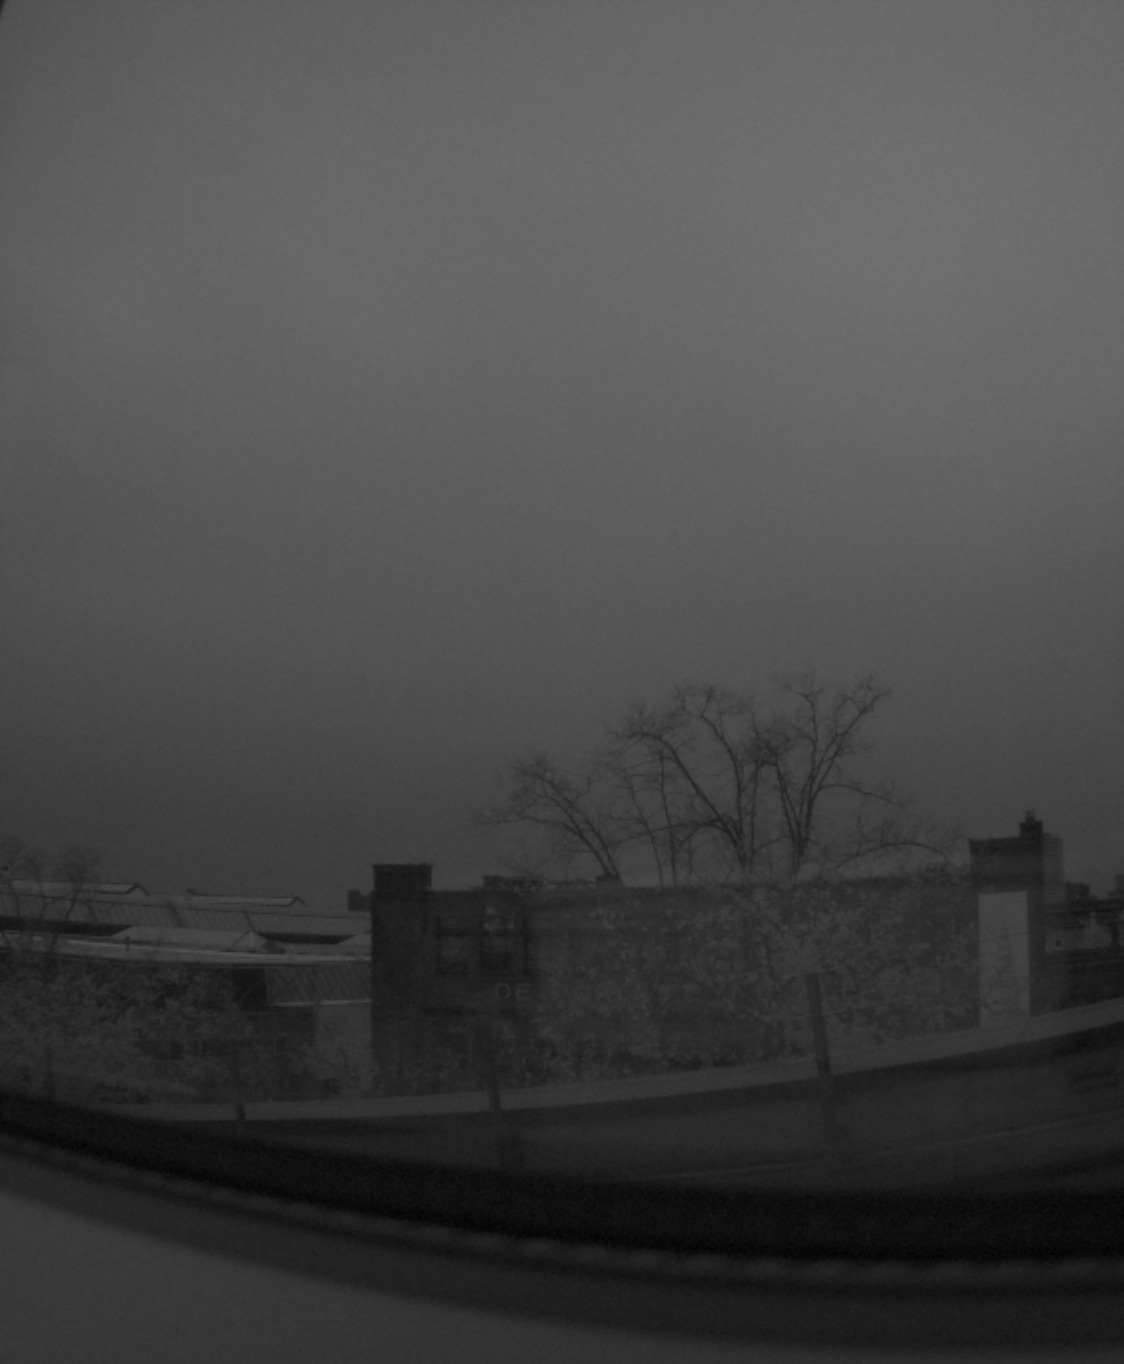
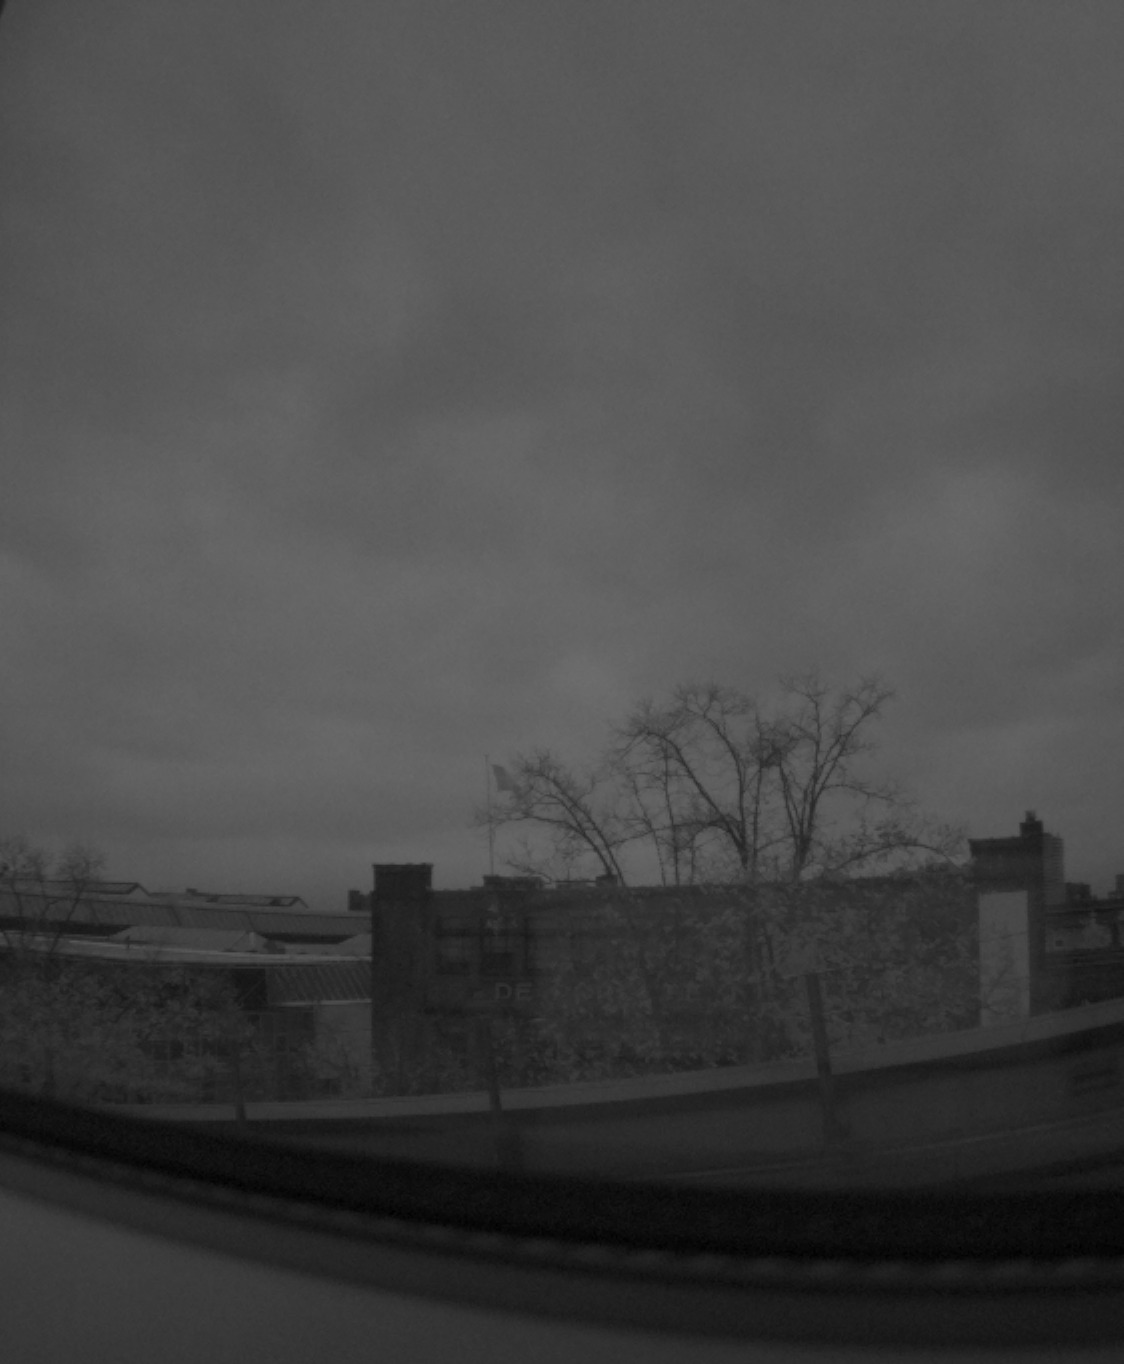
Use datasheet DS14163: NIR removal by default, sensor black level, docs
- Bridge removes NIR from R, G and B by default (rgb - ir); the datasheet
  QE curves show all pixel types respond equally above ~820 nm. Disabled
  automatically when a colour matrix is loaded.
- Bridge reads the black level (dark calibration pedestal) from the sensor
  instead of assuming 64
- vd16gz.py: analogue gain factor 32 / (32 - code), set_gain_x()
- capture.py preview uses the same NIR removal
- README: sensor characteristics (spectral sensitivity, specifications,
  lens requirements, unused sensor features), updated example images

Changed region(s): [[0.0, 0.4927, 0.903, 0.6774], [0.8096, 0.1232, 0.8719, 0.1848], [0.7785, 0.1848, 0.8096, 0.2155]]

diff --git a/bridge/vd16gz-bridge.c b/bridge/vd16gz-bridge.c
@@ -47,7 +47,11 @@
 
 enum { R, G, B, I };
 
-/* 4x4 colour filter layout at full resolution, no flips, top-left pixel first. */
+/* vd56g3 driver control: black level (pedestal) added after the sensor's dark calibration */
+#define V4L2_CID_DARKCAL_PEDESTAL (V4L2_CID_USER_BASE | 0x1024)
+
+/* 4x4 colour filter layout at full resolution, no flips, top-left pixel first
+ * (datasheet DS14163, figure 22). */
 static const char *CFA_ROWS[4] = { "GIGI", "BGRG", "GIGI", "RGBG" };
 
 static struct {
@@ -61,7 +65,7 @@ static struct {
 	const char *exposure;    /* NULL (leave), "auto" or lines */
 	int gain;
 } opt = {
-	.threads = 4, .black = 64, .wb_mode = -1, .gain = -1,
+	.threads = 4, .black = -1, .wb_mode = -1, .gain = -1, .ir_subtract = -1,
 	.dev_path = { "/dev/vd16gz-rgb", "/dev/vd16gz-ir", "/dev/vd16gz-raw" },
 };
 
@@ -194,10 +198,15 @@ static void setup_pipeline(char *video, size_t n)
 		fprintf(stderr, "vd16gz-bridge: sensor '%s' (%s) on %s, capturing from %s\n",
 			sensor.name, sensor.devnode, path, video);
 
+		int sfd = open(sensor.devnode, O_RDWR);
+		if (sfd < 0)
+			die("cannot open %s", sensor.devnode);
+		if (opt.black < 0) {
+			/* The sensor's dark calibration subtracts the dark level and adds this pedestal */
+			struct v4l2_control c = { .id = V4L2_CID_DARKCAL_PEDESTAL };
+			opt.black = xioctl(sfd, VIDIOC_G_CTRL, &c) ? 64 : c.value;
+		}
 		if (opt.exposure || opt.gain >= 0) {
-			int sfd = open(sensor.devnode, O_RDWR);
-			if (sfd < 0)
-				die("cannot open %s", sensor.devnode);
 			if (opt.exposure && !strcmp(opt.exposure, "auto")) {
 				set_ctrl(sfd, V4L2_CID_EXPOSURE_AUTO, V4L2_EXPOSURE_AUTO, "auto_exposure");
 			} else {
@@ -207,8 +216,8 @@ static void setup_pipeline(char *video, size_t n)
 				if (opt.gain >= 0)
 					set_ctrl(sfd, V4L2_CID_ANALOGUE_GAIN, opt.gain, "analogue_gain");
 			}
-			close(sfd);
 		}
+		close(sfd);
 		close(mfd);
 		return;
 	}
@@ -770,9 +779,10 @@ static void usage(void)
 	       "                     or none when a colour matrix is loaded)\n"
 	       "  --ccm FILE         3x4 colour matrix from tools/calibrate.py\n"
 	       "                     (default /etc/vd16gz/ccm.json if it exists)\n"
-	       "  --ir-subtract K    rgb -= K * ir before the colour matrix\n"
+	       "  --ir-subtract K    rgb -= K * ir, removes near-infrared from R, G and B\n"
+	       "                     (default 1 without a colour matrix, 0 with one)\n"
 	       "  --swap-rb          swap the R and B sites of the colour filter\n"
-	       "  --black N          black level of the 10-bit data (default 64)\n"
+	       "  --black N          black level of the 10-bit data (default: read from the sensor, 64)\n"
 	       "  --exposure auto|N  set sensor auto exposure or N lines (21-2093) at start\n"
 	       "  --gain N           set sensor analogue gain (0-28) at start\n"
 	       "  --threads N        worker threads (default 4)\n"
@@ -822,7 +832,7 @@ static void parse_args(int argc, char **argv)
 	}
 	if (opt.threads < 1 || opt.threads > MAX_THREADS)
 		errno = 0, die("--threads must be 1..%d", MAX_THREADS);
-	if (opt.black < 0 || opt.black > 1000)
+	if (opt.black > 1000)
 		errno = 0, die("--black out of range");
 	if (ccm && strcmp(ccm, "none"))
 		load_ccm(ccm, 1);
@@ -830,6 +840,11 @@ static void parse_args(int argc, char **argv)
 		load_ccm("/etc/vd16gz/ccm.json", 0);
 	if (opt.wb_mode < 0)
 		opt.wb_mode = opt.have_ccm ? 0 : 1;
+	/* R, G and B pixels are about as sensitive to NIR (> 800 nm) as the IR pixels
+	 * (datasheet figure 19), so rgb - ir leaves the visible part. A colour matrix
+	 * from calibrate.py already includes its own IR correction. */
+	if (opt.ir_subtract < 0)
+		opt.ir_subtract = opt.have_ccm ? 0 : 1;
 }
 
 /* -------------------------------------------------------------------- main */
@@ -850,12 +865,12 @@ static double now(void)
 int main(int argc, char **argv)
 {
 	parse_args(argc, argv);
-	init_tables();
 	signal(SIGINT, on_signal);
 	signal(SIGTERM, on_signal);
 
 	char video[128];
 	setup_pipeline(video, sizeof(video));
+	init_tables(); /* after setup_pipeline, which reads the black level from the sensor */
 
 	int ow = opt.half ? HALF_W : W, oh = opt.half ? H / 2 : H;
 	struct output out[3];
@@ -879,9 +894,9 @@ int main(int argc, char **argv)
 	float wb[3] = { 1, 1, 1 };
 	if (opt.wb_mode == 2)
 		memcpy(wb, opt.wb_fixed, sizeof(wb));
-	fprintf(stderr, "vd16gz-bridge: streaming %dx%d %s, %s, wb %s\n", ow, oh,
+	fprintf(stderr, "vd16gz-bridge: streaming %dx%d %s, %s, wb %s, ir-subtract %g, black level %d\n", ow, oh,
 		opt.half ? "(half)" : "(full)", opt.linear ? "linear" : "sRGB",
-		opt.wb_mode == 1 ? "auto" : opt.wb_mode == 2 ? "fixed" : "none");
+		opt.wb_mode == 1 ? "auto" : opt.wb_mode == 2 ? "fixed" : "none", opt.ir_subtract, opt.black);
 
 	unsigned long frames = 0, dropped = 0;
 	double t_stat = now(), busy = 0;

diff --git a/tools/capture.py b/tools/capture.py
@@ -5,7 +5,7 @@ Reads the unprocessed mosaic from /dev/vd16gz-raw (published by vd16gz-bridge),
 optionally averages several frames, and saves:
   <prefix>_raw.npy    10-bit mosaic (H x W, uint16)
   <prefix>_rgbi.npy   linear R, G, B, IR in 0..1 (H x W x 4, float32), black level removed
-  <prefix>_rgb.png    preview (white balanced, sRGB; uses the colour matrix if given)
+  <prefix>_rgb.png    preview (IR subtracted, white balanced, sRGB; or the colour matrix if given)
   <prefix>_ir.png     IR preview (sRGB)
 
 The interpolation is the same as in vd16gz-bridge (normalized convolution).
@@ -22,7 +22,8 @@ from PIL import Image
 WIDTH, HEIGHT = 1124, 1364
 BLACK_LEVEL = 64  # dark_calibration_pedestal, 10-bit
 
-# 4x4 colour filter layout at full resolution with no flips, top-left pixel first.
+# 4x4 colour filter layout at full resolution with no flips, top-left pixel first
+# (datasheet DS14163, figure 22).
 CFA = [
     "GIGI",
     "BGRG",
@@ -87,8 +88,11 @@ def srgb_8bit(x):
     return (np.where(x <= 0.0031308, x * 12.92, 1.055 * x ** (1 / 2.4) - 0.055) * 255 + 0.5).astype(np.uint8)
 
 
-def preview(rgbi, ccm):
-    rgb = rgbi[..., :3] if ccm is None else rgbi @ ccm.T
+def preview(rgbi, ccm, ir_subtract):
+    if ccm is None:  # R, G and B also see NIR about as strongly as IR does: remove it
+        rgb = np.clip(rgbi[..., :3] - ir_subtract * rgbi[..., 3:4], 0, None)
+    else:
+        rgb = rgbi @ ccm.T
     if ccm is None:  # grey world white balance
         means = rgb.reshape(-1, 3).mean(0)
         rgb = rgb * (means[1] / np.maximum(means, 1e-6))
@@ -102,6 +106,8 @@ def main():
     ap.add_argument("--average", type=int, default=1, metavar="N", help="average N frames to lower noise")
     ap.add_argument("--skip", type=int, default=5, help="frames to discard first (default 5)")
     ap.add_argument("--ccm", default="/etc/vd16gz/ccm.json", help="colour matrix for the preview, if present")
+    ap.add_argument("--ir-subtract", type=float, default=1.0,
+                    help="preview only: rgb -= K * ir when no colour matrix is used (default 1)")
     ap.add_argument("--swap-rb", action="store_true", help="swap the R and B sites of the CFA")
     args = ap.parse_args()
 
@@ -114,7 +120,7 @@ def main():
 
     raw = grab_raw(args.device, args.average, args.skip)
     rgbi = demosaic(raw, cfa_masks(args.swap_rb))
-    rgb8, ir8 = preview(rgbi, ccm)
+    rgb8, ir8 = preview(rgbi, ccm, args.ir_subtract)
     np.save(prefix + "_raw.npy", np.round(raw).astype(np.uint16))
     np.save(prefix + "_rgbi.npy", rgbi)
     Image.fromarray(rgb8).save(prefix + "_rgb.png")

diff --git a/tools/vd16gz.py b/tools/vd16gz.py
@@ -40,6 +40,18 @@ CONTROLS = {
 }
 
 
+def analog_gain_factor(code):
+    """Analogue gain factor for control code 0..28: 32 / (32 - code), x1 (0 dB) .. x8 (18 dB).
+
+    Datasheet DS14163, section 2.4.4."""
+    return 32 / (32 - code)
+
+
+def analog_gain_code(factor):
+    """Control code for an analogue gain factor 1..8 (nearest step)."""
+    return min(max(round(32 - 32 / factor), 0), 28)
+
+
 class Sensor:
     def __init__(self, path=SENSOR):
         self.fd = os.open(path, os.O_RDWR)
@@ -75,7 +87,16 @@ class Sensor:
         self.set_exposure(round(microseconds * 1e-6 * PIXEL_RATE / LINE_LENGTH), gain)
 
     def set_gain(self, gain):
+        """Analogue gain control code 0..28 (factor 32 / (32 - code), see analog_gain_factor)."""
         self.set("analogue_gain", gain)
+
+    def set_gain_x(self, factor):
+        """Analogue gain as a factor, 1.0 .. 8.0 (rounded to the nearest of the 29 steps)."""
+        self.set("analogue_gain", analog_gain_code(factor))
+
+    @property
+    def gain_x(self):
+        return analog_gain_factor(self.get("analogue_gain"))
 
     def set_fps(self, fps):
         """Frame rate via vertical blanking (default 60 fps, sensor maximum about 88 fps).

diff --git a/README.md b/README.md
@@ -21,8 +21,8 @@ Made by Daan Boesten on 21 October 2026, together with Claude Opus 5.5 (Anthropi
 | ![RGB example](docs/example_rgb.jpg) | ![IR example](docs/example_ir.jpg) |
 
 *One sensor frame at full resolution (1124 x 1364), split by vd16gz-bridge into RGB and IR;
-both images have the same timestamp. Auto exposure and grey world white balance, no colour
-calibration.*
+both images have the same timestamp. Default settings: auto exposure, NIR removed from RGB
+(`rgb - ir`), grey world white balance, no colour calibration.*
 
 ## How it works
 
@@ -86,7 +86,7 @@ No V4L2 or OpenCV format holds all four colours in one image, so these are the t
 | Content | the measured values, 10-bit (0..1023) | interpolated RGB and IR, 8-bit |
 | Data per frame | 3.1 MB (one stream) | 6.1 MB (two streams) |
 | Bridge CPU at 60 fps | ~2 ms per frame (unpacking only) | ~14 ms per frame on 4 threads, ~3 cores |
-| Values | linear, nothing invented | 3 of 4 values per pixel are estimated; sRGB gamma and white balance by default |
+| Values | linear, nothing invented | 3 of 4 values per pixel are estimated; NIR subtracted, white balance and sRGB gamma by default |
 | Works with | your own code (NumPy / OpenCV) | any webcam program: OpenCV, GStreamer, ffmpeg, browsers |
 | Synchronization | automatic: all four colours are in one image | per frame timestamp, identical on both devices |
 | You need to know | the 4x4 pattern and the black level (64) | nothing; RGB and IR are ready to use |
@@ -176,7 +176,7 @@ import vd16gz
 
 cam = vd16gz.Sensor()
 cam.set_exposure_us(5000)   # manual exposure, 5 ms
-cam.set_gain(8)             # analogue gain step 0..28
+cam.set_gain_x(2.0)         # analogue gain x1..x8 (or cam.set_gain(code), code 0..28)
 cam.auto_exposure()         # the sensor's own auto exposure (default)
 cam.set_fps(30)             # frame rate via vertical blanking
 print(cam.get("exposure"), cam.temperature)
@@ -193,6 +193,10 @@ v4l2-ctl -d /dev/vd16gz-sensor -c auto_exposure=0                # back to auto
 
 Exposure is set in lines of 7.69 us (1236 pixels at 160.8 MHz). At 60 fps it can be at most
 2093 lines (16.1 ms). For longer exposures, lower the frame rate first.
+
+The analogue gain control takes a code from 0 to 28; the gain factor is 32 / (32 - code), so
+code 0 = x1, 16 = x2, 24 = x4 and 28 = x8 (+18 dB). Steps are fine at low gain and coarse at
+high gain. `vd16gz.analog_gain_factor()` and `analog_gain_code()` convert between the two.
 
 ### GStreamer, ffmpeg
 
@@ -249,7 +253,7 @@ Bridge options go in `/etc/default/vd16gz-bridge`. Apply them with
 | `--linear` | linear 8-bit output instead of sRGB gamma (for measurements) |
 | `--wb auto\|none\|R,G,B` | white balance: grey world (default), none, or fixed gains |
 | `--ccm FILE` | 3x4 colour matrix (default `/etc/vd16gz/ccm.json` if it exists) |
-| `--ir-subtract K` | subtract K x IR from R, G and B (IR leakage) |
+| `--ir-subtract K` | subtract K x IR from R, G and B to remove near-infrared (default 1; 0 with a colour matrix). See [Sensor characteristics](#sensor-characteristics) |
 | `--raw none` | don't publish `/dev/vd16gz-raw` |
 | `--exposure auto\|N`, `--gain N` | sensor settings at start-up |
 
@@ -266,7 +270,8 @@ If your own processing needs the CPU, use `--half`, or read only the device you 
 
 ### Colour calibration (optional)
 
-Without calibration, colours are white balanced with the grey world method. For accurate
+Without calibration, the bridge removes NIR with `rgb - ir` and white balances with the grey
+world method. For accurate
 colour, photograph a ColorChecker Classic under your lighting and fit a 3x4 matrix. The matrix
 also uses the IR channel, so it removes IR leakage from the colours:
 
@@ -280,12 +285,86 @@ sudo cp ccm.json /etc/vd16gz/ccm.json && sudo systemctl restart vd16gz-bridge
 `tools/capture.py` also works on its own for linear data. It saves the raw mosaic and a linear
 H x W x 4 (R, G, B, IR) float array for analysis.
 
+## Sensor characteristics
+
+Summary of the ST datasheet *VB16GZ, VD16GZ: Compact and high-sensitivity 1.5 megapixel
+RGB-NIR global shutter image sensors*, DS14163 Rev 4 (March 2026). Get it from ST's
+[VD16GZ product page](https://www.st.com/en/imaging-and-photonics-solutions/vd16gz.html).
+
+### Spectral sensitivity
+
+Figure 19 of the datasheet shows the quantum efficiency (QE) of the four pixel types. Read
+approximately from that figure:
+
+| Pixel | Visible peak | Near-infrared (830-850 nm) | 940 nm |
+|---|---|---|---|
+| B | ~54 % at ~450 nm | ~36 % | ~20 % |
+| G | ~64 % at ~530 nm (plus ~17 % around 700 nm) | ~35 % | ~20 % |
+| R | ~61 % at ~600 nm, still 40-48 % from 650 to 800 nm | ~35 % | ~20 % |
+| IR | below ~5 % from 400 to 760 nm | ~36 % (its peak) | ~20 % |
+
+What this means in practice:
+
+* **R, G and B pixels see near-infrared too.** Above about 820 nm all four pixel types respond
+  almost equally, so every colour pixel holds visible light plus about the same NIR signal as
+  the IR pixel next to it. `rgb - ir` therefore removes the NIR part, and the bridge does this
+  by default (`--ir-subtract 1`). On our test scene, mean colour saturation went from 10 to 15
+  and autumn leaves turned from grey to orange.
+* **650-800 nm can't be separated.** In this band R (and a little G) respond, while the IR
+  pixel hardly does, so subtraction can't remove it. ST designs the sensor for a **dual
+  band-pass lens**: visible light plus one narrow NIR band (850 or 940 nm), with 650-800 nm
+  blocked. With a lens without such a filter, colours drift toward red; a colour matrix from
+  `tools/calibrate.py` corrects most of that.
+* **850 nm is better than 940 nm for active illumination:** QE is ~35 % against ~20 %, so
+  about 1.7x more signal for the same LED power.
+* For **raw-mosaic work**, do the same: subtract the local IR value from R, G and B before
+  computing colour, and use the IR channel as is.
+
+### Other specifications
+
+| Item | Value |
+|---|---|
+| Pixel array | 1124 x 1364 (5:6), global shutter, backside illuminated |
+| Pixel size | 2.61 um; array 2.93 x 3.56 mm; optical format 1/4" (4.61 mm diagonal) |
+| Lens chief ray angle | microlenses designed for a lens with 30 deg CRA at the corners (linear); a mismatch causes colour shading (ST application note AN6472) |
+| ADC | 10-bit; output RAW8 or RAW10 over 1 or 2 CSI-2 lanes |
+| Maximum frame rate | 88 fps at full resolution, 121 fps at 1 MP crop, 237 fps at VGA |
+| Analogue gain | x1 to x8 (+18 dB), 29 steps: gain = 32 / (32 - code) |
+| Digital gain | x1 to x8 in steps of 1/256, one per colour channel |
+| In-sensor processing | auto exposure, dark calibration (pedestal 64 by default), defective pixel correction |
+| Power | 145 mW typical at 60 fps, 4 mW standby |
+| Operating temperature | -30 to +85 C (junction) |
+
+### Sensor features not used yet
+
+The datasheet lists features that this project doesn't use yet. They're good candidates for
+future work:
+
+* **Defective pixel correction.** Because R and B swap places along the matrix, the sensor's
+  defect correction can slightly alter R and B at edges. ST recommends turning it off for
+  the best colour. The vd56g3 driver has no control for it, and the register isn't in the
+  datasheet.
+* **Embedded status lines.** Per-frame metadata: frame counter, exposure time, gains and
+  temperature. This would give the exact exposure of every frame under auto exposure. The
+  driver currently disables them.
+* **Strobe and trigger GPIOs.** The sensor can drive an LED only during exposure, for example
+  an 850 nm illuminator, or start frames from an external trigger to sync several cameras. The
+  driver supports this through device tree properties (`st,leds`, `st,in-sync`,
+  `st,out-sync`), but the overlay doesn't enable them, and it depends on whether the adapter
+  board brings the sensor GPIOs out.
+* **Contexts.** Up to 4 alternating frame setups with their own exposure, gain and GPIO
+  states, for example LED-on / LED-off frame pairs to separate active NIR from ambient light.
+  The driver doesn't expose them.
+* **Cropping** to reach 121 fps at 1 MP. The crop must start at a multiple of 4 pixels to
+  keep the colour pattern aligned.
+
 ## Limitations
 
 * **One program per device at a time.** v4l2loopback 0.13 allows a single streaming reader
   per device. Different programs can read RGB and IR at the same time.
-* **Full resolution only** (1124 x 1364). Cropping or binning on the sensor would shift the
-  colour filter pattern.
+* **Full resolution only** (1124 x 1364). The sensor's own binning and subsampling lose the
+  R or B information (datasheet 2.4.6 and 2.4.7), and cropping must keep the 4x4 pattern
+  aligned, which the bridge doesn't handle yet.
 * **Don't use the sensor's `horizontal_flip` / `vertical_flip` controls.** They change the
   colour filter layout, which the bridge doesn't follow. Flip the images in your own code
   (`cv2.flip`) instead.
